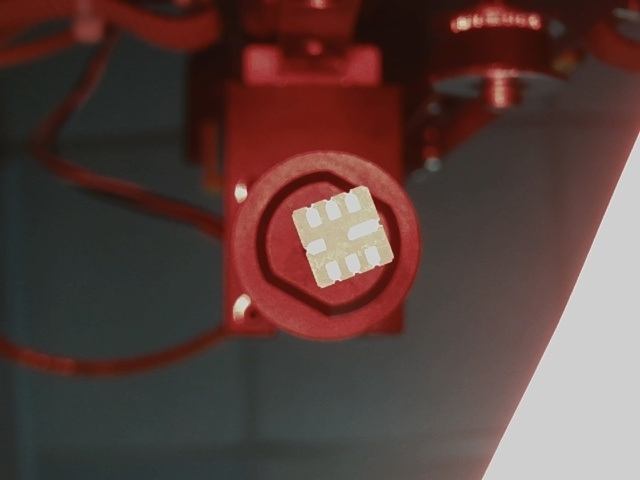
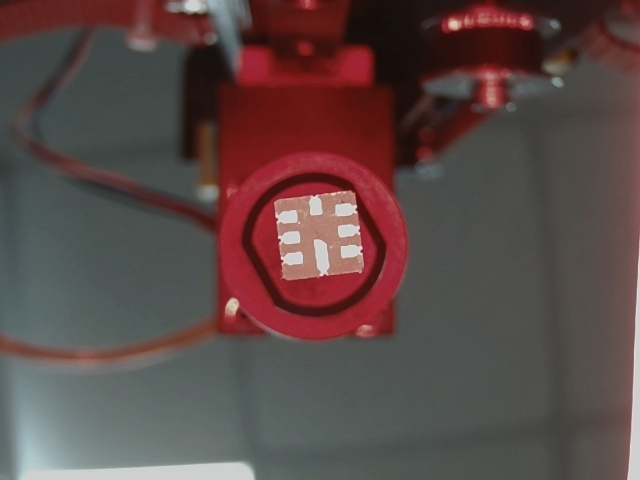
cty

diff --git a/exeSecond/exe/V2/main.py b/exeSecond/exe/V2/main.py
@@ -22,6 +22,7 @@ class Setting:
         self.COM = 'COM'
 
 pogr = [0,0]
+ispogr = False
 camera_XY = [0,0]
 box_first_XY = [0,0]
 light = False
@@ -402,13 +403,17 @@ class App(QWidget):
         if not take:
             #Включить вакум
             self.Perfomence("G0 Z20 A0")
-            time.sleep(3)
+            time.sleep(1)
+            self.Perfomence("G0 A0")
+            time.sleep(2)
             self.Perfomence("M808")
             self.LP.setStyleSheet("background-color: green")
             take = True
         else:
             #Выключить вакум
-            self.Perfomence("G0 Z17 A0")
+            self.Perfomence("G0 Z17")
+            time.sleep(2)
+            self.Perfomence("G0 A0")
             time.sleep(3)
             self.Perfomence("G0 A"+(str(A))) 
             time.sleep(4)
@@ -513,9 +518,11 @@ class App(QWidget):
         """
         Передвижение по ячейкам 2-х таблиц
         """
-        global box_first_XY, pogr    
+        global box_first_XY, pogr, ispogr    
         boxY = [[0,6.5,13.1,19.8,26.3,34.2,40.7,47.3,53.9,60.0],
         [79.8,86.3,92.9,99.6,106.1,114.0,120.5,127.1,133.7,139.8]]
+        # boxY = [[0,6.7,13.4,20.1,26.8,35,41.7,48.4,55.1,61.8],
+        # [79.8,86.3,92.9,99.6,106.1,114.0,120.5,127.1,133.7,139.8]]
         boxX = [0,6.5,13,19.6,25.9,33.9,40.8,47,53.9,59.8]
         try:
             with open("exeSecond/exe/V2/ST/BOX.pickle", "rb") as f:
@@ -526,11 +533,16 @@ class App(QWidget):
             G = int(self.CG.currentText())-1
             X = int(self.CGX.currentText())-1
             Y = int(self.CGY.currentText())-1
-            XY1 = box_first_XY[0]+boxX[X]
-            XY2 = box_first_XY[1]+boxY[G][Y]
+            if ispogr:
+                XY1 = box_first_XY[0]+boxX[X]+pogr[0]
+                XY2 = box_first_XY[1]+boxY[G][Y]+pogr[1]
+                ispogr = False
+            else:
+                XY1 = box_first_XY[0]+boxX[X]
+                XY2 = box_first_XY[1]+boxY[G][Y]
             self.TX.setText(str(XY1).replace('.',',').replace(' ',''))
             self.TY.setText(str(XY2).replace('.',',').replace(' ',''))
-            self.Perfomence("G0 X"+str(XY1)+" Y"+str(XY2))
+            self.Perfomence("G0 X"+str(XY1)+" Y"+str(XY2)+"A0")
 #-----------------------------------DULRBF-----------------------------------------------------------------------
     def Click_Down(self):
         zd = round(float(self.TZ.text().replace(',','.').replace(' ',''))+0.1,1)
@@ -579,16 +591,28 @@ class App(QWidget):
         """
         Поворот по главному выводу
         """
-        global A, camera_XY, pogr
+        global A, camera_XY, pogr, ispogr
         self.Perfomence("G0 A0")
         A=0   
         time.sleep(4)
+        ispogr = False
         try:
-            image_main = cv.imread("PR.jpg")
-            cv.imwrite("exeSecond/exe/V2/PH/PT0.jpg", image_main) 
+            image_sa = cv.imread("PR.jpg")
+            cv.imwrite("exeSecond/exe/V2/PH/PT0.jpg", image_sa) 
             angle = Commands.angleSearch()
             A = angle
             self.Perfomence("G0 A"+(str(A)))
+            time.sleep(2)
+            image_sc= cv.imread("PR.jpg")
+            cv.imwrite("exeSecond/exe/V2/PH/SC0.jpg", image_sc)
+            time.sleep(2)
+            px,py = Commands.SearchCounter()
+            pogr[0] = px
+            pogr[1] = py
+            ispogr = True
+            PX = round(float(self.TX.text().replace(',','.').replace(' ','')),1)+pogr[0]
+            PY = round(float(self.TY.text().replace(',','.').replace(' ','')),1)+pogr[1]
+            self.Perfomence("G0 X"+str(PX)+" Y"+str(PY))
             print(A)
         except:
             pass

diff --git a/exeSecond/exe/V2/Commands.py b/exeSecond/exe/V2/Commands.py
@@ -1,6 +1,6 @@
-from PIL import Image
-import numpy as np
-import cv2 as cv
+from PIL import Image # Pillow 9.5.0
+import numpy as np # numpy 1.23.5
+import cv2 as cv # opencv-python 4.7.0.72
 import math
 
 def Ang(image_main, angle):
@@ -34,7 +34,7 @@ def angleSearch():
             boxcp = cv.boxPoints(rect)
             box = np.int0(boxcp)
             area = int(rect[1][0] * rect[1][1])
-            if area > 460 and area < 1516:
+            if area > 400 and area < 1516:
                 cnts.append(box)
     except Exception as e:
         print('ERROR_0: '+str(e))
@@ -63,6 +63,7 @@ def angleSearch():
                 t1 = [cnts1[0][0], cnts1[1][1]]
                 t2 = [cnts1[1][0], cnts1[0][1]]
             angle = math.degrees(math.atan((t1[1] - t2[1]) / (t2[0] - t1[0])))
+            angle *=-1
         except Exception as e:
             print('ERROR_1: '+str(e))
             return 0
@@ -85,7 +86,7 @@ def angleSearch():
                 image_main = Ang(image_main, 180)
                 if angle < 180:
                     angle +=180
-                elif angle > 180:
+                else:
                     angle-=180
         except Exception as e:
             print('ERROR_2: '+str(e))
@@ -99,17 +100,23 @@ def angleSearch():
 
 def SearchCounter():
     try:
-        with Image.open("TM2.jpg") as img_main:
+        with Image.open("exeSecond/exe/V2/PH/SC0.jpg") as img_main:
             img_main.load()
-        img_main = np.array(img_main)
-        hsv = cv.cvtColor(img_main, cv.COLOR_BGR2HSV)
+        x,y = img_main.size
+        boxes = (x/2-80,y/2-80,x/2+80,y/2+80)
+        im = img_main.crop(boxes)
+        img_sc = np.array(im)
+        hsv = cv.cvtColor(img_sc, cv.COLOR_BGR2HSV)
         height, width = hsv.shape[:2]
         X=int(height/2)
         Y=int(width/2)
 
         h_min = np.array((0, 23, 0), np.uint8)
-        h_max = np.array((255, 255, 196), np.uint8)
+        h_max = np.array((255, 255, 181), np.uint8)
         image_first = cv.inRange(hsv, h_min, h_max)
+    except:
+        print("ERROR_3_1")
+    try:
         contours = cv.findContours(
             image_first.copy(), cv.RETR_TREE, cv.CHAIN_APPROX_TC89_KCOS
         )[0]
@@ -120,9 +127,11 @@ def SearchCounter():
                 box = cv.boxPoints(rect)
                 box = np.int0(box)
                 area = int(rect[1][0] * rect[1][1])
-                if area > 2041 and area < 7872:
+                if area > 1500 and area < 11000:
                     x1 = abs(box[0][0]-box[3][0])
-                    y1 = abs(box[1][1]-box[3][1])
+                    y1 = abs(box[0][1]-box[1][1])
+                    cv.drawContours(image_first, [box], -1, (255, 255, 255), 2)
+                    cv.imwrite("exeSecond/exe/V2/PH/TM3.jpg",image_first)
                     return round((X-x1)/100,1)/2,round((Y-y1)/100,1)/2
     except:
-        print("ERROR_3")
+        print("ERROR_3_2")

diff --git a/exeSecond/exe/V2/test_com.py b/exeSecond/exe/V2/test_com.py
@@ -5,13 +5,13 @@ class Setting:
 camera_XY = [0,0]
 box_first_XY = [0,0]
 sets = Setting()
-with open("XYZ.pickle", "rb") as f:
+with open("exeSecond/exe/V2/ST/XYZ.pickle", "rb") as f:
     camera_XY = pickle.load(f)
 
-with open("BOX.pickle", "rb") as f:
+with open("exeSecond/exe/V2/ST/BOX.pickle", "rb") as f:
     box_first_XY = pickle.load(f)
 
-with open("SET.pickle", "rb") as f:
+with open("exeSecond/exe/V2/ST/SET.pickle", "rb") as f:
     sets = pickle.load(f)
 
 print(camera_XY)
